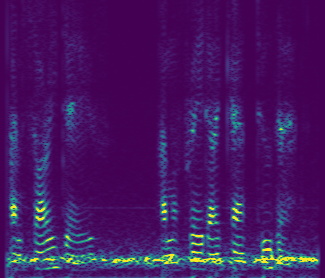
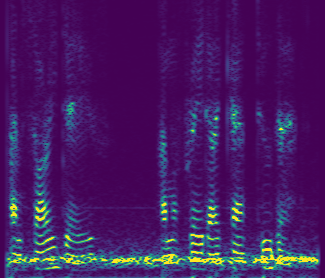
update quickstart tests to use NAudio wav reader

diff --git a/src/Spectrogram.Tests/TestAGC.cs b/src/Spectrogram.Tests/TestAGC.cs
@@ -12,11 +12,11 @@ namespace Spectrogram.Tests
         public void Test_AGC_off()
         {
             string wavFilePath = "../../../../../data/qrss-10min.wav";
-            (int sampleRate, double[] L) = WavFile.ReadMono(wavFilePath);
+            (double[] audio, int sampleRate) = TestTools.ReadWavWithNAudio(wavFilePath);
 
             int fftSize = 8192;
             var spec = new Spectrogram(sampleRate, fftSize, stepSize: 2000, maxFreq: 3000);
-            spec.Add(L);
+            spec.Add(audio);
             spec.SaveImage("qrss-agc-off.png", intensity: 3);
         }
 
@@ -26,11 +26,11 @@ namespace Spectrogram.Tests
             // strategy here is to normalize to the magnitude of the quietest 20% of frequencies
 
             string wavFilePath = "../../../../../data/qrss-10min.wav";
-            (int sampleRate, double[] L) = WavFile.ReadMono(wavFilePath);
+            (double[] audio, int sampleRate) = TestTools.ReadWavWithNAudio(wavFilePath);
 
             int fftSize = 8192;
             var spec = new Spectrogram(sampleRate, fftSize, stepSize: 2000, maxFreq: 3000);
-            spec.Add(L);
+            spec.Add(audio);
 
             var ffts = spec.GetFFTs();
             double normalIntensity = 2;
@@ -61,11 +61,11 @@ namespace Spectrogram.Tests
             // strategy here is to create a weighted moving window mean and normalize to that
 
             string wavFilePath = "../../../../../data/qrss-10min.wav";
-            (int sampleRate, double[] L) = WavFile.ReadMono(wavFilePath);
+            (double[] audio, int sampleRate) = TestTools.ReadWavWithNAudio(wavFilePath);
 
             int fftSize = 8192;
             var spec = new Spectrogram(sampleRate, fftSize, stepSize: 2000, maxFreq: 3000);
-            spec.Add(L);
+            spec.Add(audio);
 
             var ffts = spec.GetFFTs();
             for (int i = 0; i < ffts.Count; i++)

diff --git a/src/Spectrogram.Tests/Quickstart.cs b/src/Spectrogram.Tests/Quickstart.cs
@@ -1,20 +1,34 @@
 using NUnit.Framework;
 using System;
-using System.Drawing;
-using System.Drawing.Imaging;
+using System.Collections.Generic;
+using System.Linq;
 
 namespace Spectrogram.Tests
 {
     public class Quickstart
     {
+        private static (double[] audio, int sampleRate) ReadWavWithNAudio(string filePath)
+        {
+            using var afr = new NAudio.Wave.AudioFileReader(filePath);
+            int sampleRate = afr.WaveFormat.SampleRate;
+            int sampleCount = (int)(afr.Length / afr.WaveFormat.BitsPerSample / 8);
+            int channelCount = afr.WaveFormat.Channels;
+            var audio = new List<double>(sampleCount);
+            var buffer = new float[sampleRate * channelCount];
+            int samplesRead = 0;
+            while ((samplesRead = afr.Read(buffer, 0, buffer.Length)) > 0)
+                audio.AddRange(buffer.Take(samplesRead).Select(x => (double)x));
+            return (audio.ToArray(), sampleRate);
+        }
+
         [Test]
         public void Test_Quickstart_Hal()
         {
-            (int sampleRate, double[] audio) = WavFile.ReadMono("../../../../../data/cant-do-that-44100.wav");
+            (double[] audio, int sampleRate) = TestTools.ReadWavWithNAudio("../../../../../data/cant-do-that-44100.wav");
             int fftSize = 4096;
             var spec = new Spectrogram(sampleRate, fftSize, stepSize: 500, maxFreq: 3000);
             spec.Add(audio);
-            spec.SaveImage("../../../../../dev/graphics/hal.png", intensity: .2);
+            spec.SaveImage("../../../../../dev/graphics/hal.png", intensity: 8_000);
             
             Console.WriteLine(spec);
         }

diff --git a/src/Spectrogram.Tests/TestTools.cs b/src/Spectrogram.Tests/TestTools.cs
@@ -1,0 +1,24 @@
+using System;
+using System.Collections.Generic;
+using System.Linq;
+using System.Text;
+
+namespace Spectrogram.Tests
+{
+    public static class TestTools
+    {
+        public static (double[] audio, int sampleRate) ReadWavWithNAudio(string filePath)
+        {
+            using var afr = new NAudio.Wave.AudioFileReader(filePath);
+            int sampleRate = afr.WaveFormat.SampleRate;
+            int sampleCount = (int)(afr.Length / afr.WaveFormat.BitsPerSample / 8);
+            int channelCount = afr.WaveFormat.Channels;
+            var audio = new List<double>(sampleCount);
+            var buffer = new float[sampleRate * channelCount];
+            int samplesRead = 0;
+            while ((samplesRead = afr.Read(buffer, 0, buffer.Length)) > 0)
+                audio.AddRange(buffer.Take(samplesRead).Select(x => (double)x));
+            return (audio.ToArray(), sampleRate);
+        }
+    }
+}

diff --git a/src/Spectrogram/WavFile.cs b/src/Spectrogram/WavFile.cs
@@ -7,6 +7,7 @@ using System.IO;
 
 namespace Spectrogram
 {
+    [Obsolete("Use a library like NAudio to extract data from WAV files (see spectrogram quickstart for examples)", true)]
     public static class WavFile
     {
         private static (string id, uint length) ChunkInfo(BinaryReader br, long position)
